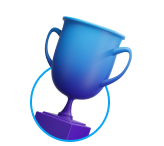
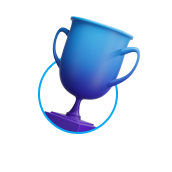
Added graphics

Changed region(s): [[0.1829, 0.0822, 0.8232, 0.9863]]

diff --git a/pages/about.js b/pages/about.js
@@ -157,7 +157,7 @@ function PrincipleCard(props) {
             alignItems="flex-start"
             sx={{ padding: 0, margin: 0 }}
           >
-            <Image width={81} height={72} quality={100} src={image_path} />
+            <Image width={78} height={78} quality={100} src={image_path} />
           </Grid>
         </Grid>
       </Grid>
@@ -706,28 +706,28 @@ export default function About(props) {
             body_text={
               "Keepers discover MEV and provide liquidity to capture it; protocols and users create MEV with their markets, products, and transactions. Block producers are incidental to the MEV economy and have no claim to the value within the blocks they validate or mine."
             }
-            image_path={"/images/graphics/trophy.png"}
+            image_path={"/images/graphics/mev.png"}
           />
           <PrincipleCard
             header_text={'Search for "win-win" scenarios'}
             body_text={
               "Coordination and cooperation can be more competitive than going at it alone, especially in the open world of DeFi. We want to embody coordination not only in our protocol design, but in business practices and funding, to create a DAO that looks to work with others, shares its profits to gain even more, and welcomes any partnership or contribution where both parties stand to gain."
             }
-            image_path={"/images/graphics/trophy.png"}
+            image_path={"/images/graphics/rooks.png"}
           />
           <PrincipleCard
             header_text={"Solve hard problems"}
             body_text={
               'As co-founder Joey Zacherl said, "we\'re a home run first, singles and doubles later type of ball club." We want to be a DAO focused on providing lasting solutions to the complex problems of MEV and the Keeper economy. Solutions that generalize and can flourish in many directions.'
             }
-            image_path={"/images/graphics/trophy.png"}
+            image_path={"/images/graphics/solve.png"}
           />
           <PrincipleCard
             header_text={"Decentralise"}
             body_text={
               "We believe in the power of decentralisation to create stronger communities and modes of production. We are committed to creating and experimenting with all approaches that can allow us to become a stronger DAO."
             }
-            image_path={"/images/graphics/trophy.png"}
+            image_path={"/images/graphics/kip.png"}
           />
         </Grid>
         <Grid
@@ -751,6 +751,7 @@ export default function About(props) {
               justifyContent: "flex-start",
               alignItems: "center",
               marginBottom: "40px",
+              paddingLeft: { xs: "16px", md: 0 },
             }}
             spacing={1}
           >
@@ -774,7 +775,7 @@ export default function About(props) {
             item
             direction="row"
             spacing={1}
-            sx={{ justifyContent: { xs: "center", sm: "flex-start" } }}
+            sx={{ justifyContent: { xs: "center", md: "flex-start" } }}
           >
             <Grid item>
               <a
@@ -815,6 +816,20 @@ export default function About(props) {
                   height={115}
                   quality={100}
                   src={"/images/investors/amber_light.png"}
+                />
+              </a>
+            </Grid>
+            <Grid item>
+              <a
+                target="_blank"
+                href="https://www.fisher8.capital/"
+                rel="noopener noreferrer"
+              >
+                <Image
+                  width={247}
+                  height={115}
+                  quality={100}
+                  src={"/images/investors/fisher8_light.png"}
                 />
               </a>
             </Grid>
